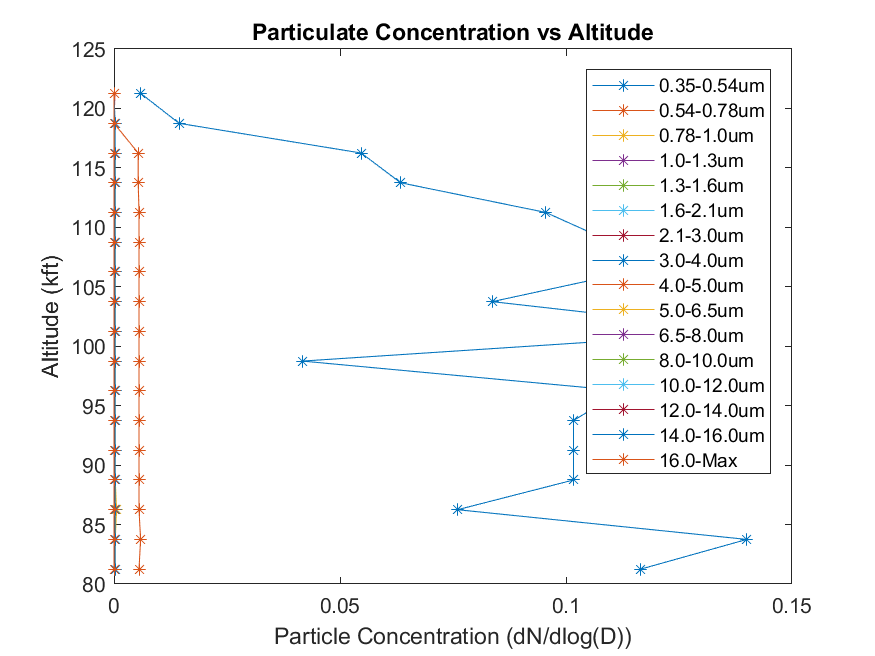
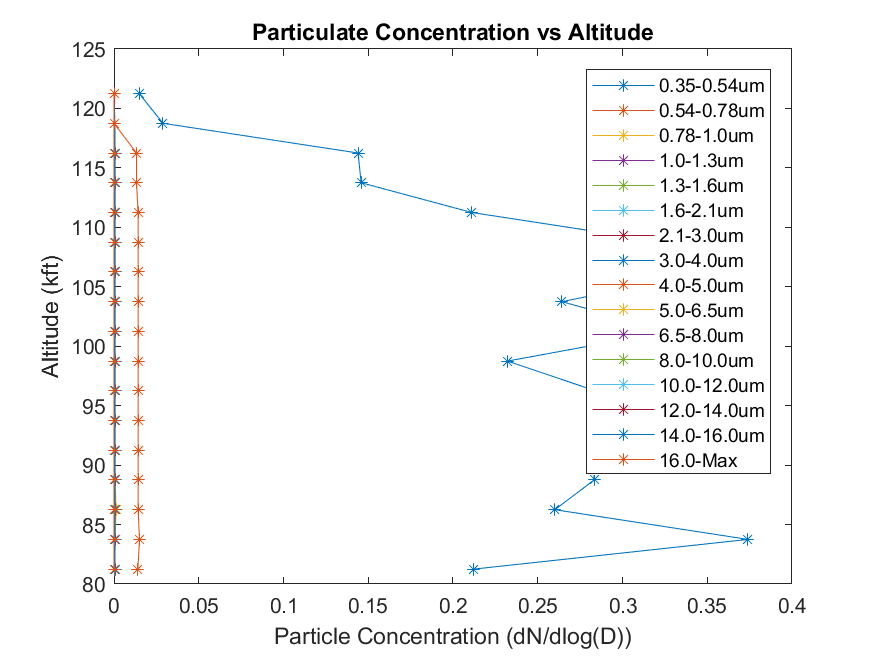
Fixed plotting script to account for instantaneous sample flow rate

diff --git a/utils/import_Dust_Data.m b/utils/import_Dust_Data.m
@@ -1,46 +1,30 @@
-function [Bin0,Bin1,Bin2,Bin3,Bin4,Bin5,Bin6,Bin7,Bin8,Bin9,Bin10,Bin11,Bin12,Bin13,Bin14,Bin15] = import_Dust_Data(filename, startRow, endRow)
+function [Bin0,Bin1,Bin2,Bin3,Bin4,Bin5,Bin6,Bin7,Bin8,Bin9,Bin10,Bin11,Bin12,Bin13,Bin14,Bin15,SFRmls,SamplingPeriods] = import_Dust_Data(filename, startRow, endRow)
 %IMPORTFILE Import numeric data from a text file as column vectors.
-%   [BIN0,BIN1,BIN2,BIN3,BIN4,BIN5,BIN6,BIN7,BIN8,BIN9,BIN10,BIN11,BIN12,BIN13,BIN14,BIN15]
+%   [BIN0,BIN1,BIN2,BIN3,BIN4,BIN5,BIN6,BIN7,BIN8,BIN9,BIN10,BIN11,BIN12,BIN13,BIN14,BIN15,SFRMLS,SAMPLINGPERIODS]
 %   = IMPORTFILE(FILENAME) Reads data from text file FILENAME for the
 %   default selection.
 %
-%   [BIN0,BIN1,BIN2,BIN3,BIN4,BIN5,BIN6,BIN7,BIN8,BIN9,BIN10,BIN11,BIN12,BIN13,BIN14,BIN15]
+%   [BIN0,BIN1,BIN2,BIN3,BIN4,BIN5,BIN6,BIN7,BIN8,BIN9,BIN10,BIN11,BIN12,BIN13,BIN14,BIN15,SFRMLS,SAMPLINGPERIODS]
 %   = IMPORTFILE(FILENAME, STARTROW, ENDROW) Reads data from rows STARTROW
 %   through ENDROW of text file FILENAME.
 %
 % Example:
-%   [Bin0,Bin1,Bin2,Bin3,Bin4,Bin5,Bin6,Bin7,Bin8,Bin9,Bin10,Bin11,Bin12,Bin13,Bin14,Bin15] = importfile('OPC2_002.CSV',17, 7156);
+%   [Bin0,Bin1,Bin2,Bin3,Bin4,Bin5,Bin6,Bin7,Bin8,Bin9,Bin10,Bin11,Bin12,Bin13,Bin14,Bin15,SFRmls,SamplingPeriods] = importfile('OPC2_000.CSV',16, 61814);
 %
 %    See also TEXTSCAN.
 
-% Auto-generated by MATLAB on 2018/05/29 10:43:35
+% Auto-generated by MATLAB on 2018/10/03 15:02:34
 
 %% Initialize variables.
 delimiter = ',';
 if nargin<=2
-    startRow = 17;
+    startRow = 16;
     endRow = inf;
 end
 
-%% Format for each line of text:
-%   column1: double (%f)
-%	column2: double (%f)
-%   column3: double (%f)
-%	column4: double (%f)
-%   column5: double (%f)
-%	column6: double (%f)
-%   column7: double (%f)
-%	column8: double (%f)
-%   column9: double (%f)
-%	column10: double (%f)
-%   column11: double (%f)
-%	column12: double (%f)
-%   column13: double (%f)
-%	column14: double (%f)
-%   column15: double (%f)
-%	column16: double (%f)
+%% Read columns of data as text:
 % For more information, see the TEXTSCAN documentation.
-formatSpec = '%f%f%f%f%f%f%f%f%f%f%f%f%f%f%f%f%*s%*s%*s%*s%*s%*s%*s%*s%*s%[^\n\r]';
+formatSpec = '%s%s%s%s%s%s%s%s%s%s%s%s%s%s%s%s%*s%*s%*s%*s%s%s%[^\n\r]';
 
 %% Open the text file.
 fileID = fopen(filename,'r');
@@ -49,10 +33,10 @@ fileID = fopen(filename,'r');
 % This call is based on the structure of the file used to generate this
 % code. If an error occurs for a different file, try regenerating the code
 % from the Import Tool.
-dataArray = textscan(fileID, formatSpec, endRow(1)-startRow(1)+1, 'Delimiter', delimiter, 'TextType', 'string', 'EmptyValue', NaN, 'HeaderLines', startRow(1)-1, 'ReturnOnError', false, 'EndOfLine', '\r\n');
+dataArray = textscan(fileID, formatSpec, endRow(1)-startRow(1)+1, 'Delimiter', delimiter, 'TextType', 'string', 'HeaderLines', startRow(1)-1, 'ReturnOnError', false, 'EndOfLine', '\r\n');
 for block=2:length(startRow)
     frewind(fileID);
-    dataArrayBlock = textscan(fileID, formatSpec, endRow(block)-startRow(block)+1, 'Delimiter', delimiter, 'TextType', 'string', 'EmptyValue', NaN, 'HeaderLines', startRow(block)-1, 'ReturnOnError', false, 'EndOfLine', '\r\n');
+    dataArrayBlock = textscan(fileID, formatSpec, endRow(block)-startRow(block)+1, 'Delimiter', delimiter, 'TextType', 'string', 'HeaderLines', startRow(block)-1, 'ReturnOnError', false, 'EndOfLine', '\r\n');
     for col=1:length(dataArray)
         dataArray{col} = [dataArray{col};dataArrayBlock{col}];
     end
@@ -61,28 +45,70 @@ end
 %% Close the text file.
 fclose(fileID);
 
-%% Post processing for unimportable data.
-% No unimportable data rules were applied during the import, so no post
-% processing code is included. To generate code which works for
-% unimportable data, select unimportable cells in a file and regenerate the
-% script.
+%% Convert the contents of columns containing numeric text to numbers.
+% Replace non-numeric text with NaN.
+raw = repmat({''},length(dataArray{1}),length(dataArray)-1);
+for col=1:length(dataArray)-1
+    raw(1:length(dataArray{col}),col) = mat2cell(dataArray{col}, ones(length(dataArray{col}), 1));
+end
+numericData = NaN(size(dataArray{1},1),size(dataArray,2));
+
+for col=[1,2,3,4,5,6,7,8,9,10,11,12,13,14,15,16,17,18]
+    % Converts text in the input cell array to numbers. Replaced non-numeric
+    % text with NaN.
+    rawData = dataArray{col};
+    for row=1:size(rawData, 1)
+        % Create a regular expression to detect and remove non-numeric prefixes and
+        % suffixes.
+        regexstr = '(?<prefix>.*?)(?<numbers>([-]*(\d+[\,]*)+[\.]{0,1}\d*[eEdD]{0,1}[-+]*\d*[i]{0,1})|([-]*(\d+[\,]*)*[\.]{1,1}\d+[eEdD]{0,1}[-+]*\d*[i]{0,1}))(?<suffix>.*)';
+        try
+            result = regexp(rawData(row), regexstr, 'names');
+            numbers = result.numbers;
+            
+            % Detected commas in non-thousand locations.
+            invalidThousandsSeparator = false;
+            if numbers.contains(',')
+                thousandsRegExp = '^\d+?(\,\d{3})*\.{0,1}\d*$';
+                if isempty(regexp(numbers, thousandsRegExp, 'once'))
+                    numbers = NaN;
+                    invalidThousandsSeparator = true;
+                end
+            end
+            % Convert numeric text to numbers.
+            if ~invalidThousandsSeparator
+                numbers = textscan(char(strrep(numbers, ',', '')), '%f');
+                numericData(row, col) = numbers{1};
+                raw{row, col} = numbers{1};
+            end
+        catch
+            raw{row, col} = rawData{row};
+        end
+    end
+end
+
+
+%% Replace non-numeric cells with NaN
+R = cellfun(@(x) ~isnumeric(x) && ~islogical(x),raw); % Find non-numeric cells
+raw(R) = {NaN}; % Replace non-numeric cells
 
 %% Allocate imported array to column variable names
-Bin0 = dataArray{:, 1};
-Bin1 = dataArray{:, 2};
-Bin2 = dataArray{:, 3};
-Bin3 = dataArray{:, 4};
-Bin4 = dataArray{:, 5};
-Bin5 = dataArray{:, 6};
-Bin6 = dataArray{:, 7};
-Bin7 = dataArray{:, 8};
-Bin8 = dataArray{:, 9};
-Bin9 = dataArray{:, 10};
-Bin10 = dataArray{:, 11};
-Bin11 = dataArray{:, 12};
-Bin12 = dataArray{:, 13};
-Bin13 = dataArray{:, 14};
-Bin14 = dataArray{:, 15};
-Bin15 = dataArray{:, 16};
+Bin0 = cell2mat(raw(:, 1));
+Bin1 = cell2mat(raw(:, 2));
+Bin2 = cell2mat(raw(:, 3));
+Bin3 = cell2mat(raw(:, 4));
+Bin4 = cell2mat(raw(:, 5));
+Bin5 = cell2mat(raw(:, 6));
+Bin6 = cell2mat(raw(:, 7));
+Bin7 = cell2mat(raw(:, 8));
+Bin8 = cell2mat(raw(:, 9));
+Bin9 = cell2mat(raw(:, 10));
+Bin10 = cell2mat(raw(:, 11));
+Bin11 = cell2mat(raw(:, 12));
+Bin12 = cell2mat(raw(:, 13));
+Bin13 = cell2mat(raw(:, 14));
+Bin14 = cell2mat(raw(:, 15));
+Bin15 = cell2mat(raw(:, 16));
+SFRmls = cell2mat(raw(:, 17));
+SamplingPeriods = cell2mat(raw(:, 18));
 
 

diff --git a/utils/Concentration_vs_Alt_Plot.m b/utils/Concentration_vs_Alt_Plot.m
@@ -16,9 +16,9 @@ addpath(genpath(fPath2));
 addpath(genpath(fPath1));
 %% Parameters
 mTOft=3.2808399;
-flowRate=220/60; %cm^3/s
+samplePeriod=1.389;
 %% Import Data
-[Bin0,Bin1,Bin2,Bin3,Bin4,Bin5,Bin6,Bin7,Bin8,Bin9,Bin10,Bin11,Bin12,Bin13,Bin14,Bin15] = import_Dust_Data(dustFile, 17, inf);
+[Bin0,Bin1,Bin2,Bin3,Bin4,Bin5,Bin6,Bin7,Bin8,Bin9,Bin10,Bin11,Bin12,Bin13,Bin14,Bin15,SFR,~] = import_Dust_Data(dustFile, 17, inf);
 dust_Array=[Bin0 Bin1 Bin2 Bin3 Bin4 Bin5 Bin6 Bin7 Bin8 Bin9 Bin10 Bin11 Bin12 Bin13 Bin14 Bin15];
 size=[0.38 0.54 0.78 1.0 1.3 1.6 2.1 3.0 4.0 5.0 6.5 8.0 10.0 12.0 14.0 16.0 25];
 Alt = import_HASP_Alt(flightLog, 1, inf);
@@ -26,7 +26,7 @@ Alt=(Alt(opc_tOffset:end).*mTOft)/1000;
 
 
 %% Obtain OPC Time Vector
-t_sensor = 1.4.*(linspace(0,length(Bin0),length(Bin0)));
+t_sensor = samplePeriod.*(linspace(0,length(Bin0),length(Bin0)));
 t_alt=linspace(0,length(Alt),length(Alt));
 for s=1:1:16
 %% Define Dust Dataset
@@ -57,9 +57,12 @@ sets={idx1, idx2, idx3, idx4, idx5, idx6, idx7, idx8, idx9, idx10, idx11, idx12,
 for i=1:17
     array=sets{i};
     for j=1:length(array)
-        conc(j)=dust(array(j));
+        counts(j)=dust(array(j));
+        flowrate(j)=SFR(array(j));
     end
-    dustSets(i)=((sum(conc)/length(conc))/flowRate)/(log10(sizeRange(2))-log10(sizeRange(1)));
+    avgCounts=sum(counts)/length(counts);
+    avgSFR=sum(flowrate)/length(flowrate); %Sample flow rate in cm^3/s
+    dustSets(i)=(avgCounts/avgSFR)/(log10(sizeRange(2))-log10(sizeRange(1)));
 end
 dusty(:,s)=dustSets';
 cdAlt=linspace(81.25,121.25,17);
